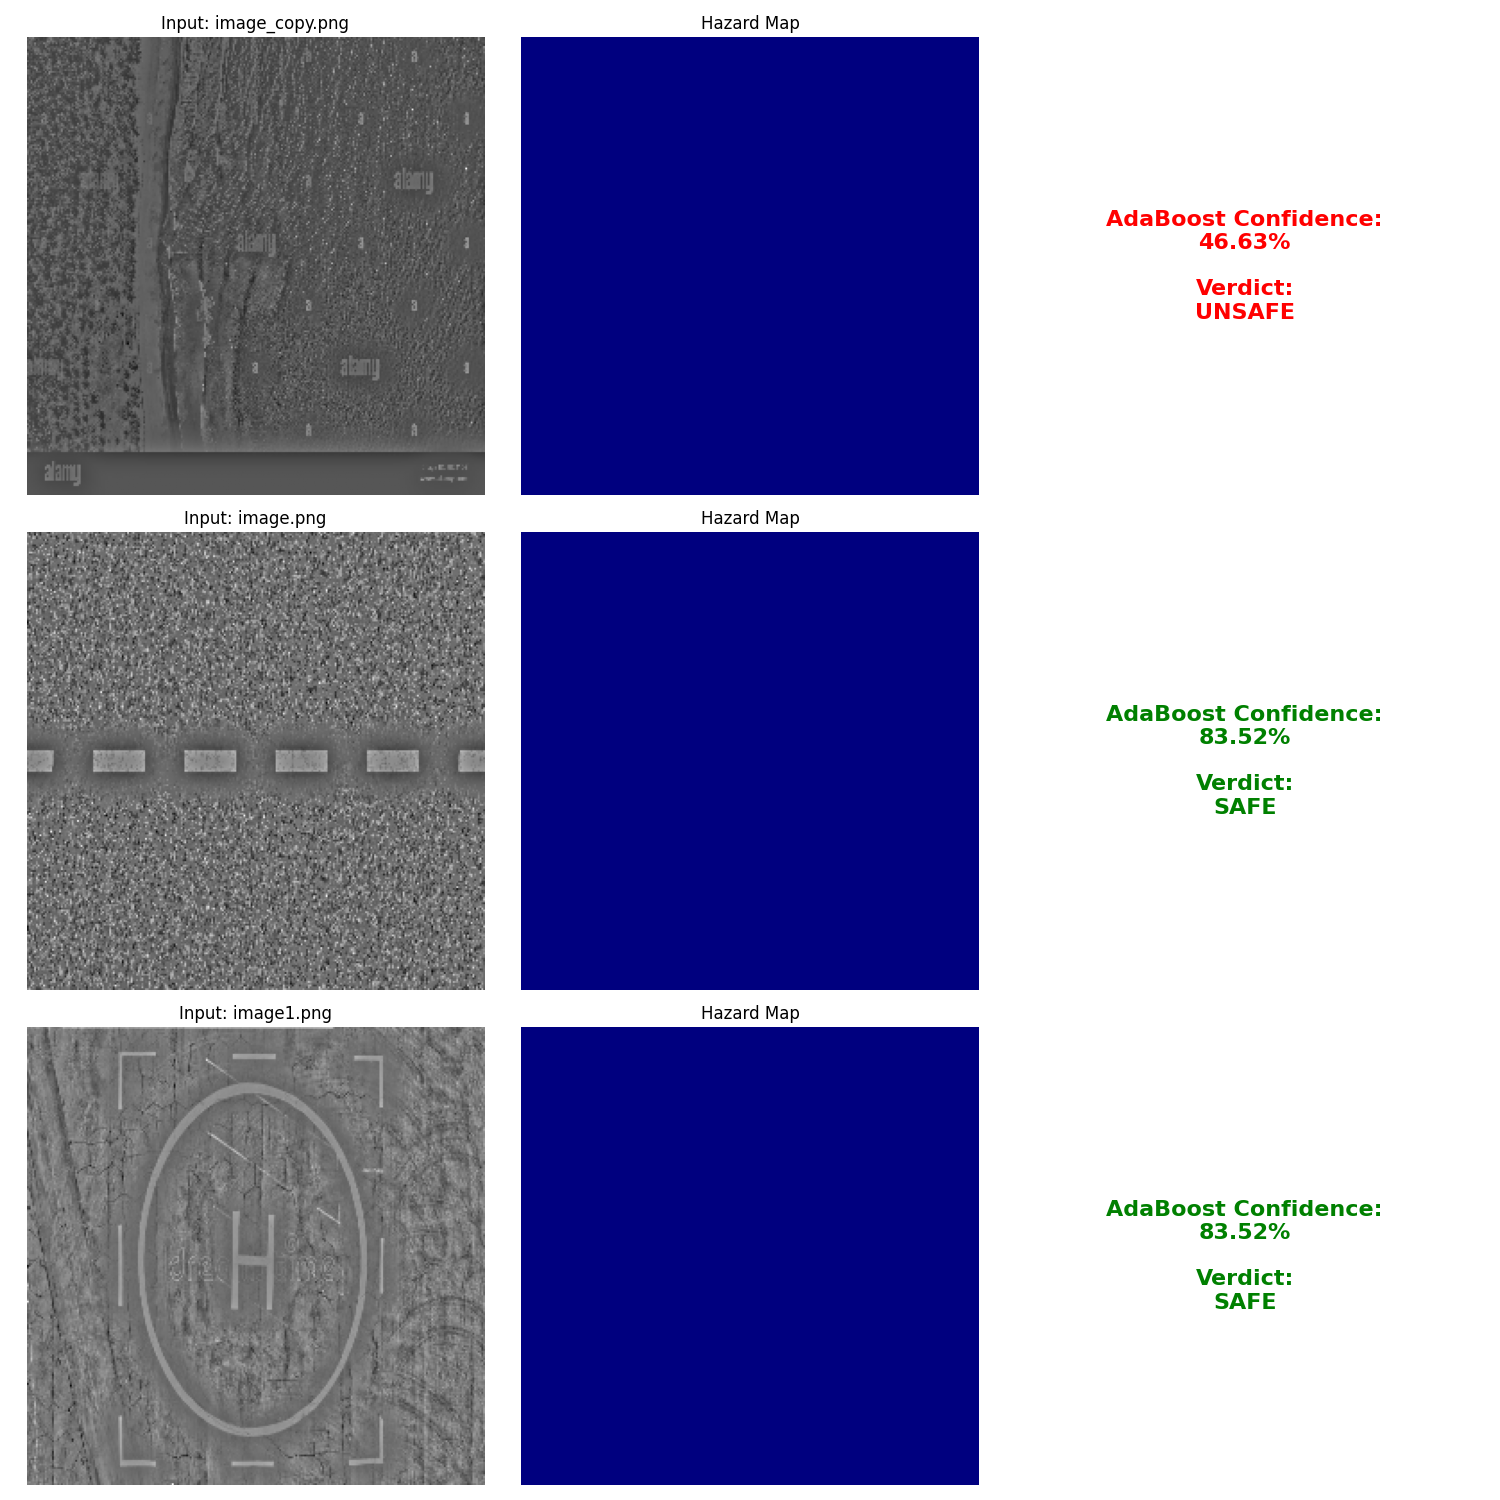
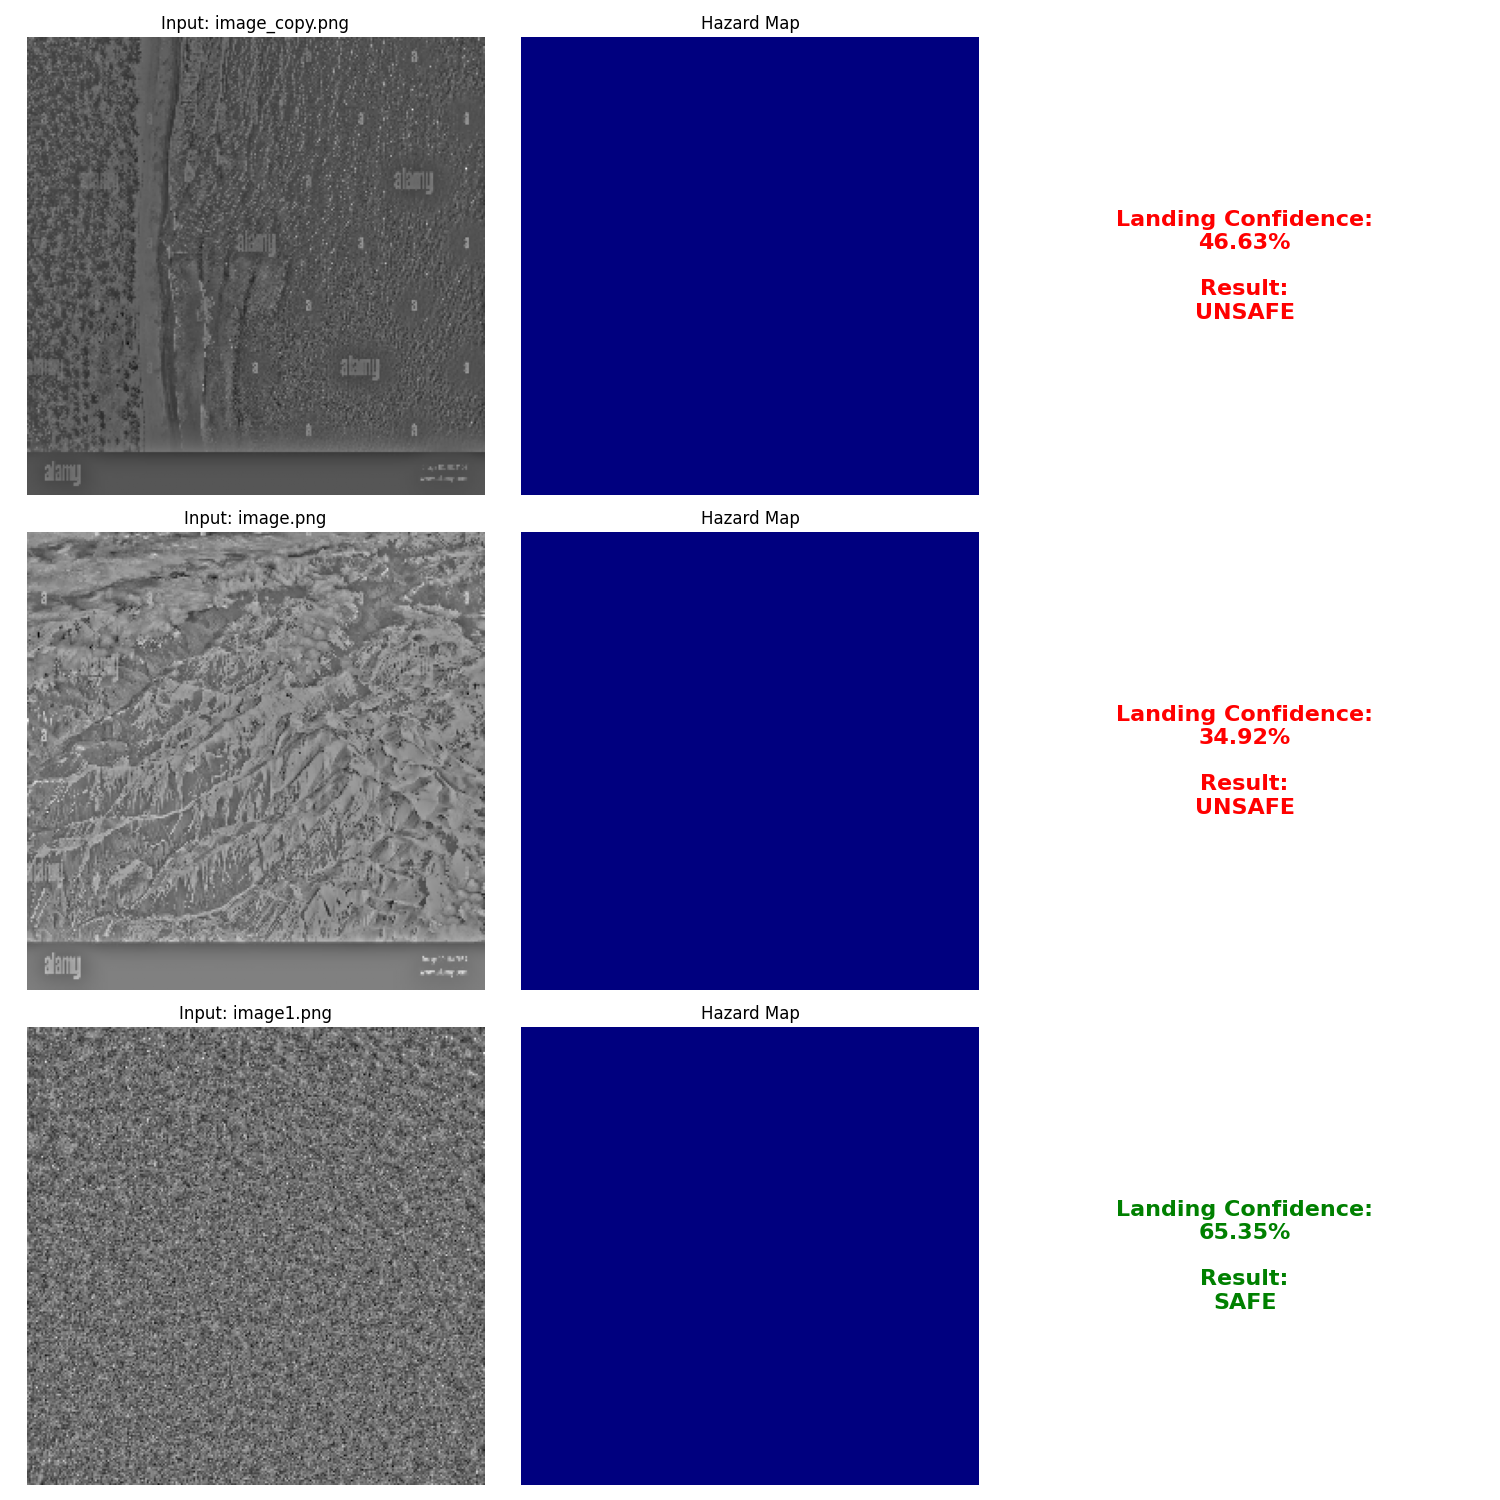
removing unnecessary files

diff --git a/test_viz.py b/test_viz.py
@@ -58,7 +58,7 @@ def visualize():
 
         verdict = "SAFE" if verdict_class == 1 else "UNSAFE"
         color = "green" if verdict == "SAFE" else "red"
-        text = f"AdaBoost Confidence:\n{confidence:.2%}\n\nVerdict:\n{verdict}"
+        text = f"Landing Confidence:\n{confidence:.2%}\n\nResult:\n{verdict}"
         axes[idx, 2].text(0.5, 0.5, text, fontsize=16, ha='center', va='center', color=color, fontweight='bold')
         axes[idx, 2].axis('off')
 
